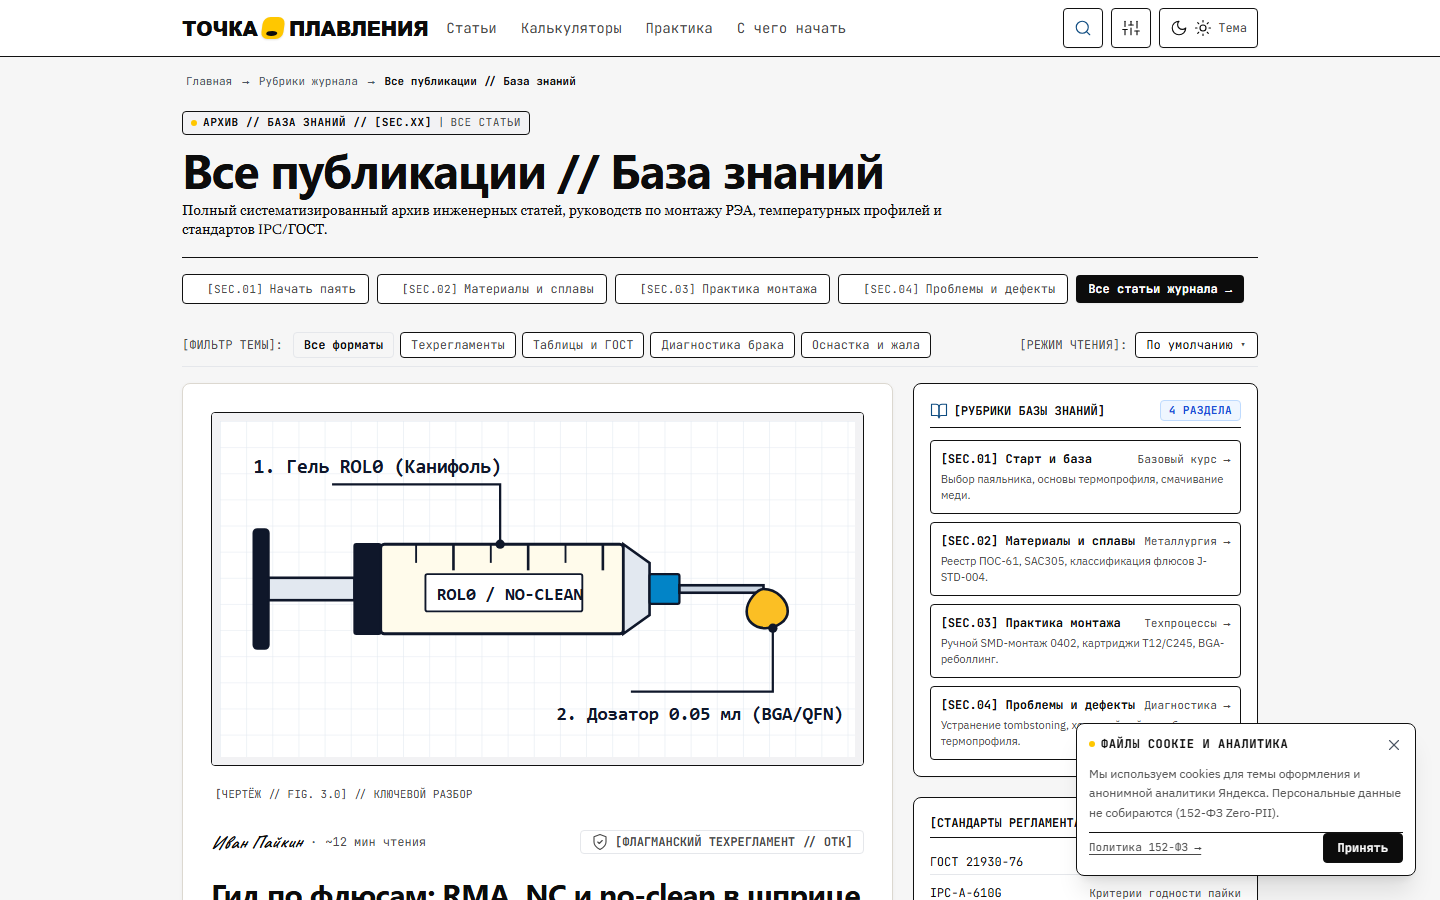
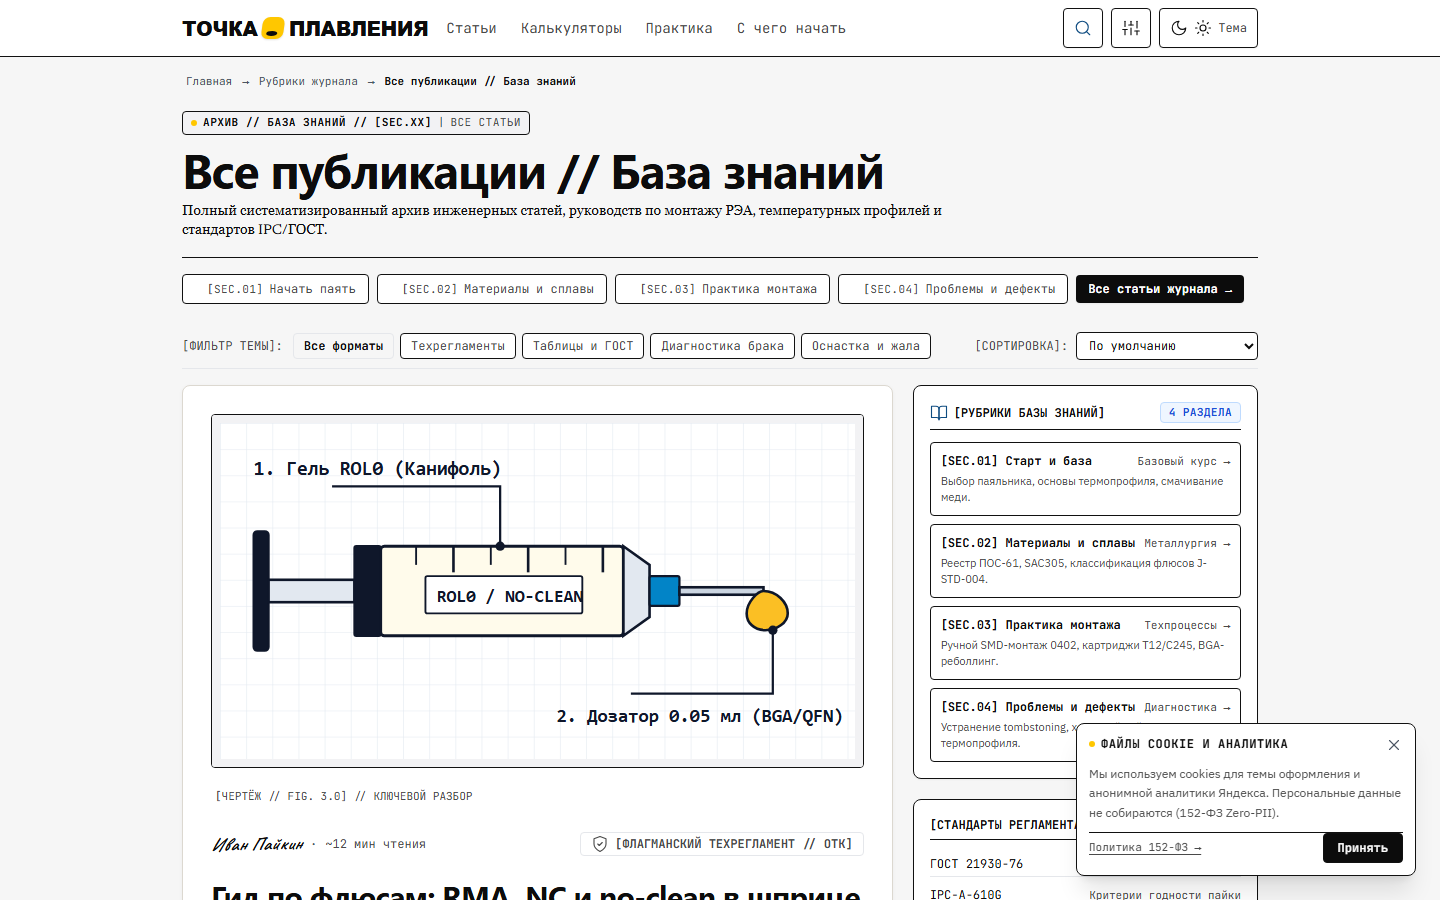
fix(theme4): synchronize roze alloy key, fix WP archive query, correct CollectionPage schema and add sort select

diff --git a/theme4/category.php b/theme4/category.php
@@ -97,6 +97,7 @@ if ($is_tag_view && $queried_tag) {
     $all_ids = array_values(array_unique($all_ids));
 
     $current_rubric = [
+        'slug'        => 'all',
         'title'       => 'Все публикации // База знаний',
         'tag'         => 'ВСЕ РЕГЛАМЕНТЫ',
         'lead'        => 'Полный систематизированный архив инженерных статей, руководств по монтажу РЭА, температурных профилей и стандартов IPC/ГОСТ.',
@@ -146,7 +147,7 @@ if (function_exists('get_posts')) {
         $wp_args['tag_id'] = $queried_tag->term_id;
     } elseif ($queried_cat && !empty($queried_cat->term_id)) {
         $wp_args['cat'] = $queried_cat->term_id;
-    } elseif ($slug && !$is_tag_view) {
+    } elseif ($current_slug !== 'all' && $slug && !$is_tag_view) {
         $wp_args['category_name'] = $slug;
     }
     $wp_posts = get_posts($wp_args);
@@ -389,14 +390,18 @@ include __DIR__ . '/includes/header.php';
           </div>
 
           <!-- Quick Sorting Options -->
-          <div class="flex items-center gap-2 text-xs font-mono text-ink-muted ml-auto">
-            <span>[РЕЖИМ ЧТЕНИЯ]:</span>
-            <a href="<?= esc_url($site_root) ?>category.php?slug=<?= urlencode($current_slug) ?>&sub=<?= urlencode($active_sub) ?>&sort=<?= $sort_param === 'time_asc' ? 'time_desc' : 'time_asc' ?>"
-               class="inline-flex items-center gap-1.5 px-2.5 py-1 rounded border border-paper-border bg-paper hover:border-ink/40 text-ink transition-colors focus-visible:ring-2 focus-visible:ring-accent focus-visible:outline-none">
-              <span><?= $sort_param === 'time_desc' ? 'Сначала длинные ↓' : ($sort_param === 'time_asc' ? 'Сначала быстрые ↑' : 'По умолчанию') ?></span>
-              <span class="text-ink-muted text-[10px]" aria-hidden="true">▾</span>
-            </a>
-          </div>
+          <form method="GET" action="<?= esc_url($site_root) ?>category.php" class="flex items-center gap-2 text-xs font-mono text-ink-muted ml-auto">
+            <input type="hidden" name="slug" value="<?= e($current_slug) ?>">
+            <?php if ($active_sub !== 'all'): ?>
+              <input type="hidden" name="sub" value="<?= e($active_sub) ?>">
+            <?php endif; ?>
+            <label for="sort-select" class="text-xs font-mono text-ink-muted whitespace-nowrap">[СОРТИРОВКА]:</label>
+            <select id="sort-select" name="sort" onchange="this.form.submit()" class="bg-paper border border-paper-border hover:border-ink/40 text-ink text-xs font-mono px-2 py-1 rounded cursor-pointer focus-visible:ring-2 focus-visible:ring-accent focus-visible:outline-none">
+              <option value="default" <?= $sort_param === 'default' ? 'selected' : '' ?>>По умолчанию</option>
+              <option value="time_asc" <?= $sort_param === 'time_asc' ? 'selected' : '' ?>>Сначала быстрые (↑)</option>
+              <option value="time_desc" <?= $sort_param === 'time_desc' ? 'selected' : '' ?>>Сначала лонгриды (↓)</option>
+            </select>
+          </form>
         </div>
       <?php endif; ?>
 

diff --git a/theme4/index.php b/theme4/index.php
@@ -267,7 +267,7 @@ include __DIR__ . '/includes/header.php';
                     <option value="sac305">SAC305 (RoHS • 217–220 °C)</option>
                     <option value="pos40">ПОС-40 (ГОСТ 21931 • 183–238 °C)</option>
                     <option value="sn42bi58">Sn42Bi58 (Низкотемп. • 138 °C)</option>
-                    <option value="rose">Сплав Розе (Демонтаж • 94 °C)</option>
+                    <option value="roze">Сплав Розе (Демонтаж • 94 °C)</option>
                   </select>
                 </div>
 
@@ -943,6 +943,11 @@ include __DIR__ . '/includes/header.php';
           pth: { range: '300 – 330', liq: '183–238 °C', delta: '+95...125 °C', max: 330 },
           copper: { range: '320 – 350', liq: '183–238 °C', delta: '+115...145 °C', max: 350 }
         },
+        roze: {
+          smd: { range: '140 – 170', liq: '94 °C', delta: '+46...76 °C', max: 170 },
+          pth: { range: '150 – 180', liq: '94 °C', delta: '+56...86 °C', max: 180 },
+          copper: { range: '160 – 190', liq: '94 °C', delta: '+66...96 °C', max: 190 }
+        },
         rose: {
           smd: { range: '140 – 170', liq: '94 °C', delta: '+46...76 °C', max: 170 },
           pth: { range: '150 – 180', liq: '94 °C', delta: '+56...86 °C', max: 180 },
@@ -953,7 +958,16 @@ include __DIR__ . '/includes/header.php';
       function updateCalc() {
         const sKey = solderEl.value || 'pos61';
         const mKey = massEl.value || 'smd';
-        const data = (MATRIX[sKey] && MATRIX[sKey][mKey]) || MATRIX.pos61.smd;
+        const data = MATRIX[sKey]?.[mKey];
+
+        if (!data) {
+          tempOutEl.textContent = '—';
+          liqValEl.textContent = '—';
+          deltaValEl.textContent = '—';
+          safetyEl.className = 'pill-yellow text-[11px] font-bold px-2 py-0.5 rounded';
+          safetyEl.textContent = 'НЕТ ДАННЫХ ДЛЯ ВЫБРАННОГО СОЧЕТАНИЯ';
+          return;
+        }
 
         tempOutEl.textContent = data.range;
         liqValEl.textContent = data.liq;

diff --git a/theme4/includes/lab-drawer.php b/theme4/includes/lab-drawer.php
@@ -42,7 +42,7 @@
           <option value="pos61" data-temp="280 °C" data-solidus="183 °C" data-liquidus="190 °C" data-flux="ROL0 / RMA" data-tal="2.5–3.0 с">ПОС-61 (Sn61Pb39) — Стандарт РЭА</option>
           <option value="sac305" data-temp="240 °C" data-solidus="217 °C" data-liquidus="217 °C" data-flux="ROL0 No-Clean" data-tal="45–60 с">SAC305 (Sn96.5Ag3Cu0.5) — Бессвинцовый</option>
           <option value="pos40" data-temp="310 °C" data-solidus="183 °C" data-liquidus="238 °C" data-flux="RMA" data-tal="3.0–4.0 с">ПОС-40 (Sn40Pb60) — Силовой монтаж</option>
-          <option value="rose" data-temp="150 °C" data-solidus="94 °C" data-liquidus="94 °C" data-flux="Спиртоканифоль" data-tal="1.5–2.0 с">Сплав Розе (Bi50Pb32Sn18) — Демонтаж</option>
+          <option value="roze" data-temp="150 °C" data-solidus="94 °C" data-liquidus="94 °C" data-flux="Спиртоканифоль" data-tal="1.5–2.0 с">Сплав Розе (Bi50Pb32Sn18) — Демонтаж</option>
           <option value="wood" data-temp="120 °C" data-solidus="68 °C" data-liquidus="72 °C" data-flux="Канифоль" data-tal="1.0–2.0 с">Сплав Вуда (Bi50Pb25Sn12.5Cd12.5)</option>
         </select>
 
